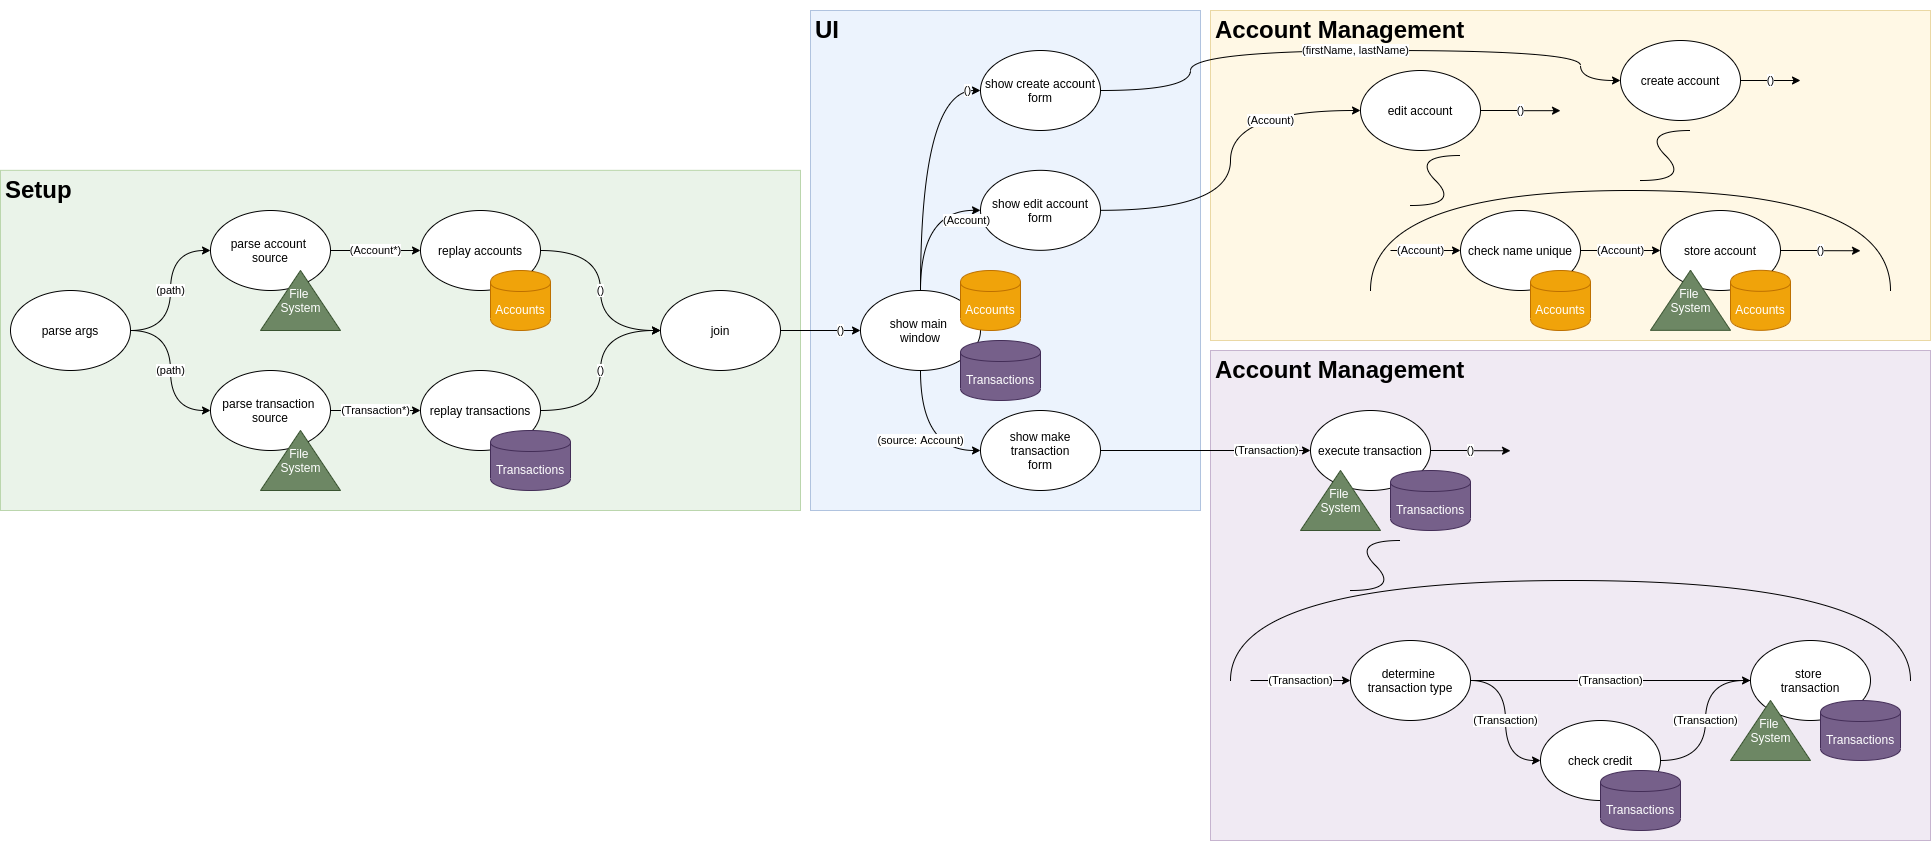
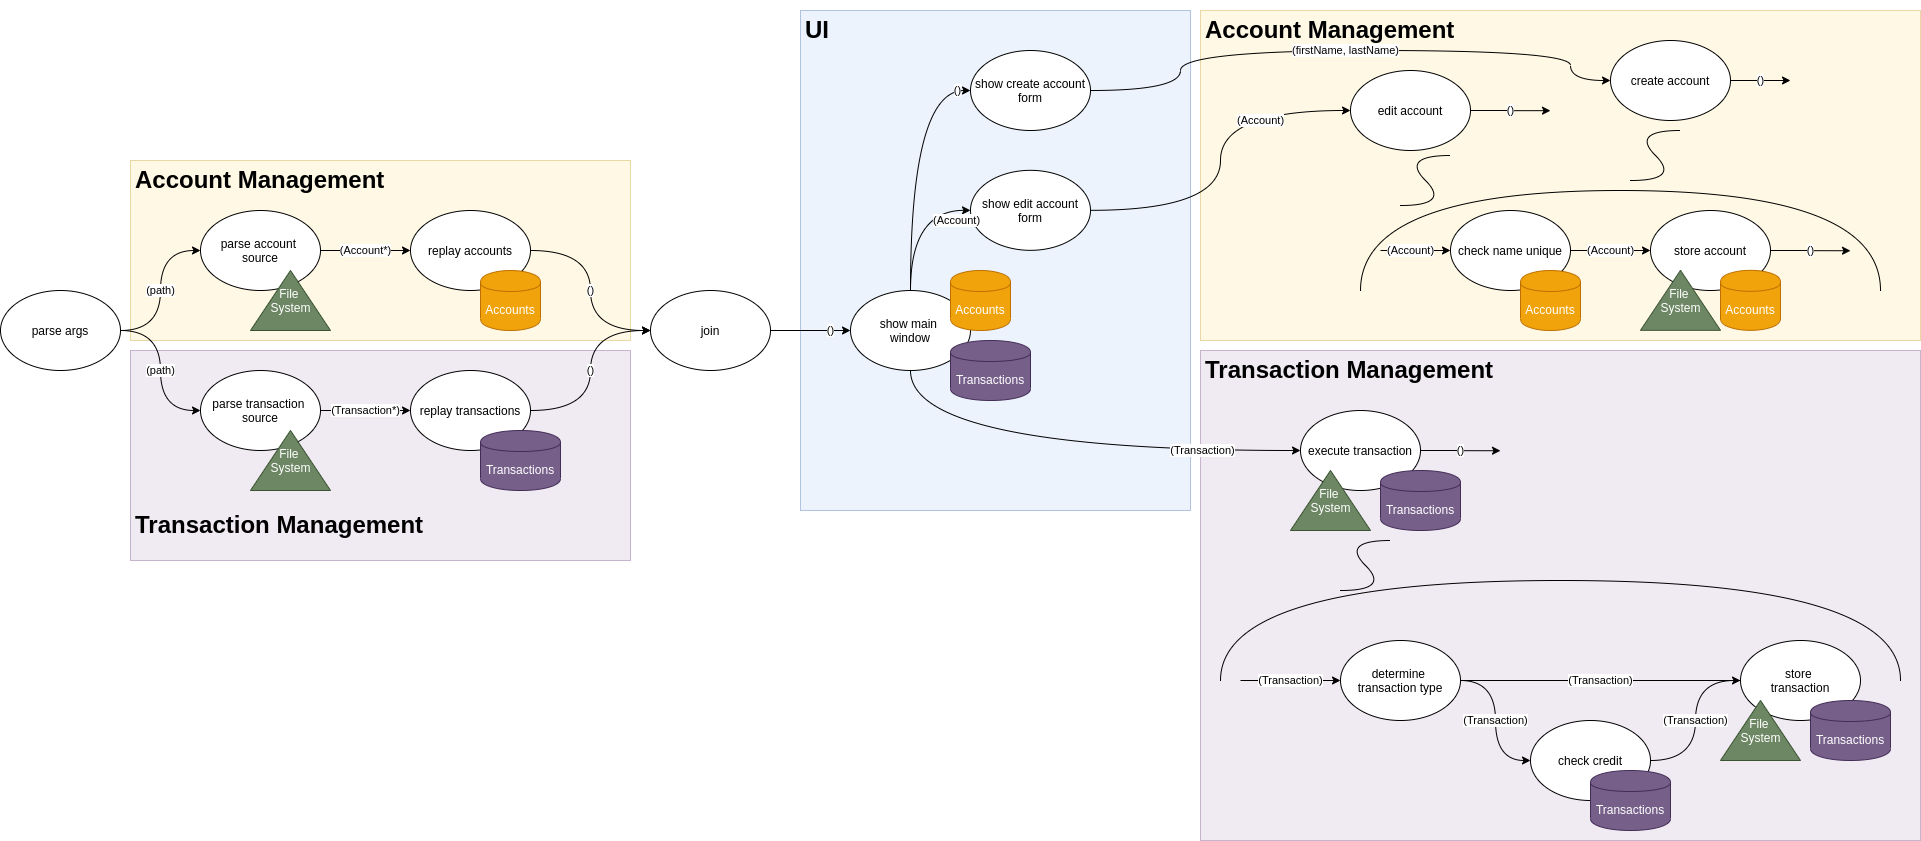
setup flow client classes

diff --git a/ljw-fx-client-flow/src/main/java/de/ljw/aachen/flow/data/Transaction.java b/ljw-fx-client-flow/src/main/java/de/ljw/aachen/flow/data/Transaction.java
@@ -1,0 +1,20 @@
+package de.ljw.aachen.flow.data;
+
+import lombok.AllArgsConstructor;
+import lombok.Data;
+import lombok.NoArgsConstructor;
+
+import java.time.Instant;
+
+@NoArgsConstructor
+@AllArgsConstructor
+@Data
+public class Transaction {
+
+    private String id;
+    private String sourceAccountId;
+    private String targetAccountId;
+    private String amount;
+    private Instant time;
+
+}

diff --git a/ljw-fx-client-flow/src/main/java/de/ljw/aachen/flow/data/Account.java b/ljw-fx-client-flow/src/main/java/de/ljw/aachen/flow/data/Account.java
@@ -1,0 +1,15 @@
+package de.ljw.aachen.flow.data;
+
+import lombok.AllArgsConstructor;
+import lombok.Data;
+import lombok.NoArgsConstructor;
+
+@NoArgsConstructor
+@AllArgsConstructor
+@Data
+public class Account {
+
+    private String id;
+    private String firstName;
+    private String lastName;
+}

diff --git a/ljw-fx-client-flow/src/main/java/de/ljw/aachen/flow/app/Launcher.java b/ljw-fx-client-flow/src/main/java/de/ljw/aachen/flow/app/Launcher.java
@@ -1,0 +1,8 @@
+package de.ljw.aachen.flow.app;
+
+public class Launcher {
+
+    public static void main(String[] args){
+        System.out.println("Running LJW Client");
+    }
+}

diff --git a/ljw-fx-client-flow/src/main/java/de/ljw/aachen/flow/logic/transactions/DetermineTransactionType.java b/ljw-fx-client-flow/src/main/java/de/ljw/aachen/flow/logic/transactions/DetermineTransactionType.java
@@ -1,0 +1,4 @@
+package de.ljw.aachen.flow.logic.transactions;
+
+public class DetermineTransactionType {
+}

diff --git a/ljw-fx-client-flow/src/main/java/de/ljw/aachen/flow/logic/transactions/ParseTransactionSource.java b/ljw-fx-client-flow/src/main/java/de/ljw/aachen/flow/logic/transactions/ParseTransactionSource.java
@@ -1,0 +1,4 @@
+package de.ljw.aachen.flow.logic.transactions;
+
+public class ParseTransactionSource {
+}

diff --git a/ljw-fx-client-flow/src/main/java/de/ljw/aachen/flow/logic/transactions/ExecuteTransaction.java b/ljw-fx-client-flow/src/main/java/de/ljw/aachen/flow/logic/transactions/ExecuteTransaction.java
@@ -1,0 +1,4 @@
+package de.ljw.aachen.flow.logic.transactions;
+
+public class ExecuteTransaction {
+}

diff --git a/ljw-fx-client-flow/src/main/java/de/ljw/aachen/flow/logic/transactions/ReplayTransactions.java b/ljw-fx-client-flow/src/main/java/de/ljw/aachen/flow/logic/transactions/ReplayTransactions.java
@@ -1,0 +1,4 @@
+package de.ljw.aachen.flow.logic.transactions;
+
+public class ReplayTransactions {
+}

diff --git a/ljw-fx-client-flow/src/main/java/de/ljw/aachen/flow/logic/transactions/StoreTransaction.java b/ljw-fx-client-flow/src/main/java/de/ljw/aachen/flow/logic/transactions/StoreTransaction.java
@@ -1,0 +1,4 @@
+package de.ljw.aachen.flow.logic.transactions;
+
+public class StoreTransaction {
+}

diff --git a/ljw-fx-client-flow/src/main/java/de/ljw/aachen/flow/logic/accounts/ParseAccountSource.java b/ljw-fx-client-flow/src/main/java/de/ljw/aachen/flow/logic/accounts/ParseAccountSource.java
@@ -1,0 +1,4 @@
+package de.ljw.aachen.flow.logic.accounts;
+
+public class ParseAccountSource {
+}

diff --git a/ljw-fx-client-flow/src/main/java/de/ljw/aachen/flow/logic/accounts/CheckNameUnique.java b/ljw-fx-client-flow/src/main/java/de/ljw/aachen/flow/logic/accounts/CheckNameUnique.java
@@ -1,0 +1,4 @@
+package de.ljw.aachen.flow.logic.accounts;
+
+public class CheckNameUnique {
+}

diff --git a/ljw-fx-client-flow/src/main/java/de/ljw/aachen/flow/logic/transactions/CheckCredit.java b/ljw-fx-client-flow/src/main/java/de/ljw/aachen/flow/logic/transactions/CheckCredit.java
@@ -1,0 +1,4 @@
+package de.ljw.aachen.flow.logic.transactions;
+
+public class CheckCredit {
+}

diff --git a/ljw-fx-client-flow/src/main/java/de/ljw/aachen/flow/logic/accounts/ReplayAccounts.java b/ljw-fx-client-flow/src/main/java/de/ljw/aachen/flow/logic/accounts/ReplayAccounts.java
@@ -1,0 +1,4 @@
+package de.ljw.aachen.flow.logic.accounts;
+
+public class ReplayAccounts {
+}
